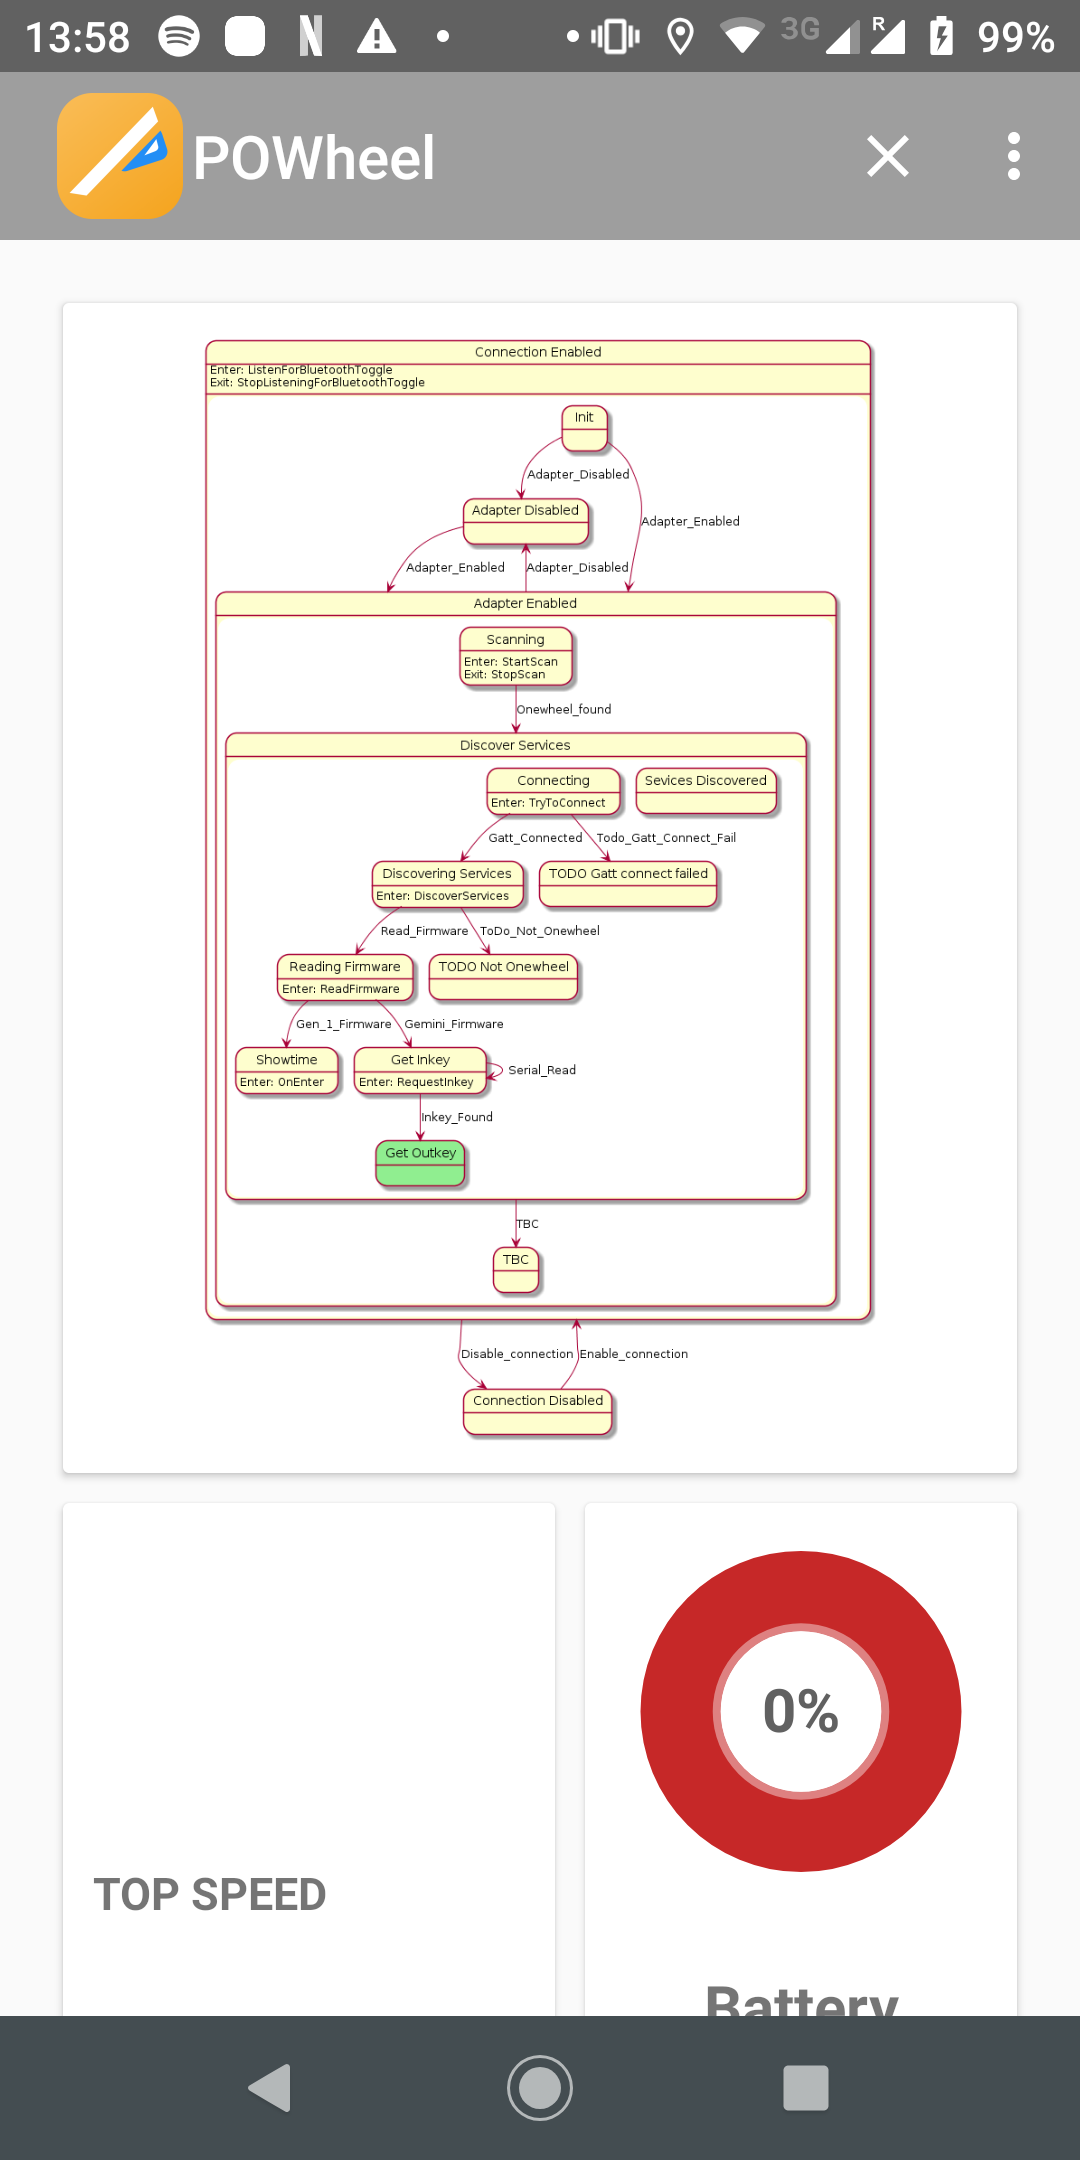
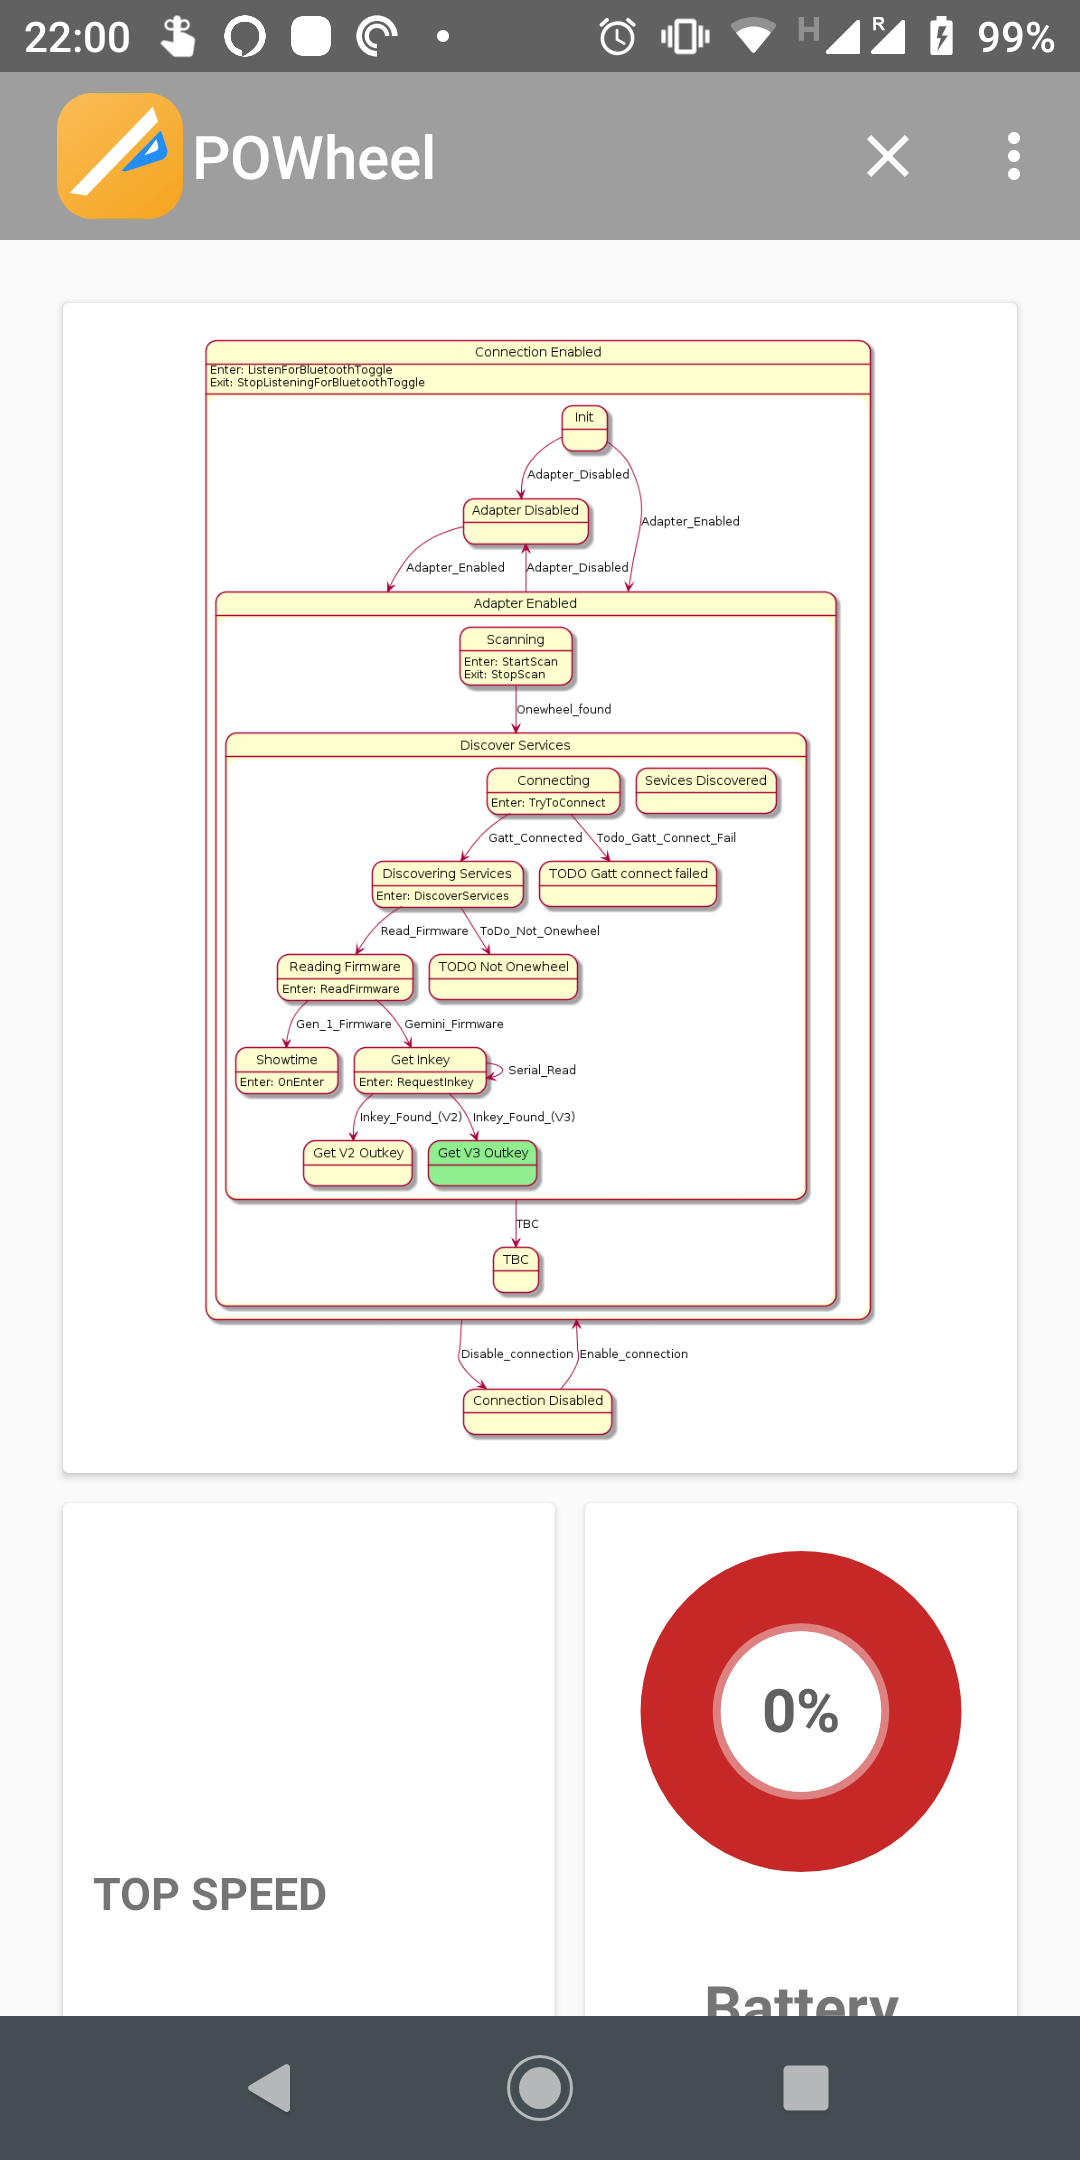
Split Get-Outkey states

diff --git a/app/src/main/java/net/kwatts/powtools/util/BluetoothUtilImpl.java b/app/src/main/java/net/kwatts/powtools/util/BluetoothUtilImpl.java
@@ -32,7 +32,7 @@ import net.kwatts.powtools.MainActivity;
 import net.kwatts.powtools.model.IUnlocker;
 import net.kwatts.powtools.model.OWDevice;
 import net.kwatts.powtools.model.Session;
-import net.kwatts.powtools.BluetoothStateMachine.Event.InkeyFound;
+import net.kwatts.powtools.BluetoothStateMachine.Event.InkeyFoundV2;
 
 import org.jetbrains.annotations.NotNull;
 
@@ -841,7 +841,8 @@ public class BluetoothUtilImpl implements BluetoothUtil, DiagramCache.CacheFille
                             HashMap<String, Object> payload = new HashMap<String, Object>(1);
                             payload.put(owGatService.getClass().getSimpleName(), owGatService);
                             payload.put(gatt.getClass().getSimpleName(), gatt);
-                            handleStateMachineEvent(DiscoverSericesStateBuilder.GEMINI_FIRMWARE, payload);
+                            payload.put(Event.GeminiFirmware.FIRMWARE_VERSION, firmwareVersion);
+                            handleStateMachineEvent(Event.GeminiFirmware.ID, payload);
                         }
 
                         IUnlocker unlocker = session.getUnlocker();
@@ -998,13 +999,13 @@ public class BluetoothUtilImpl implements BluetoothUtil, DiagramCache.CacheFille
             public static final String TODO_NOT_ONEWHEEL = "ToDo Not Onewheel";
             public static final String READ_FIRMWARE_REVISION = "Read Firmware";
             public static final String GEN_1_FIRMWARE = "Gen 1 Firmware";
-            public static final String GEMINI_FIRMWARE = "Gemini Firmware";
             public static final String SERIAL_READ = "Serial Read";
             private GetInkeyState getInkeyState;
-            private State getOutKeyState;
+            private State getOutKeyV2State;
             private ConnectingState connectingState;
             private DiscoveringServicesState discoveringServicesState;
             private ServicesDiscoveredState servicesDiscoveredState;
+            private State getOutKeyV3State;
 
             public State build() {
 
@@ -1013,7 +1014,8 @@ public class BluetoothUtilImpl implements BluetoothUtil, DiagramCache.CacheFille
                 servicesDiscoveredState = new ServicesDiscoveredState();
                 State readingFirmawareState = new ReadingFirmwareState();
                 getInkeyState = new GetInkeyState();
-                getOutKeyState = new State("Get Outkey");
+                getOutKeyV2State = new State("Get V2 Outkey");
+                getOutKeyV3State = new State("Get V3 Outkey");
 
                 State gattConnectFailed = new State("TODO Gatt connect failed");
                 State notOnewheel = new State("TODO Not Onewheel");
@@ -1027,10 +1029,11 @@ public class BluetoothUtilImpl implements BluetoothUtil, DiagramCache.CacheFille
 
                 ShowTimeState showTimeState = new ShowTimeState();
                 readingFirmawareState.addHandler(GEN_1_FIRMWARE, showTimeState, TransitionKind.External);
-                readingFirmawareState.addHandler(GEMINI_FIRMWARE, getInkeyState, TransitionKind.External);
+                readingFirmawareState.addHandler(Event.GeminiFirmware.ID, getInkeyState, TransitionKind.External);
 
                 getInkeyState.addHandler(SERIAL_READ, getInkeyState, TransitionKind.Internal, new OnSerialRead());
-                getInkeyState.addHandler(InkeyFound.ID, getOutKeyState, TransitionKind.External);
+                getInkeyState.addHandler(InkeyFoundV2.ID, getOutKeyV2State, TransitionKind.External);
+                getInkeyState.addHandler(Event.InkeyFoundV3.ID, getOutKeyV3State, TransitionKind.External);
 
                 DiscoverSericesState discoverSericesState = new DiscoverSericesState(
                         connectingState,
@@ -1039,7 +1042,8 @@ public class BluetoothUtilImpl implements BluetoothUtil, DiagramCache.CacheFille
                         readingFirmawareState,
                         showTimeState,
                         getInkeyState,
-                        getOutKeyState,
+                        getOutKeyV2State,
+                        getOutKeyV3State,
 
                         gattConnectFailed,
                         notOnewheel);
@@ -1135,6 +1139,7 @@ public class BluetoothUtilImpl implements BluetoothUtil, DiagramCache.CacheFille
             public class GetInkeyState extends State {
 
                 private final InkeyCollator inkeyCollator;
+                private int firmwareVersion;
 
                 public GetInkeyState() {
                     super("Get Inkey");
@@ -1146,7 +1151,11 @@ public class BluetoothUtilImpl implements BluetoothUtil, DiagramCache.CacheFille
                     byte[] value = bluetoothGattCharacteristic.getValue();
                     inkeyCollator.append(value);
                     if(inkeyCollator.isFound()) {
-                        handleStateMachineEvent(InkeyFound.ID, InkeyFound.newPayload(inkeyCollator));
+                        if(firmwareVersion <= 4141) {
+                            handleStateMachineEvent(InkeyFoundV2.ID, Event.newSimplePayload(inkeyCollator));
+                        } else {
+                            handleStateMachineEvent(Event.InkeyFoundV3.ID, Event.newSimplePayload(inkeyCollator));
+                        }
                     }
                 }
 
@@ -1155,7 +1164,7 @@ public class BluetoothUtilImpl implements BluetoothUtil, DiagramCache.CacheFille
                     public void run() {
                         BluetoothGattService bluetoothGattService = (BluetoothGattService) mPayload.get(BluetoothGattService.class.getSimpleName());
                         BluetoothGatt bluetoothGatt = (BluetoothGatt) mPayload.get(BluetoothGatt.class.getSimpleName());
-                        //int firmwareVersion = unsignedShort(bluetoothGattCharacteristic.getValue());
+                        firmwareVersion = (int) mPayload.get(Event.GeminiFirmware.FIRMWARE_VERSION);
                         requestInkey(bluetoothGattService, bluetoothGatt);
                     }
                 }

diff --git a/app/src/main/java/net/kwatts/powtools/BluetoothStateMachine/Event.java b/app/src/main/java/net/kwatts/powtools/BluetoothStateMachine/Event.java
@@ -6,21 +6,24 @@ import java.util.HashMap;
 
 public class Event {
 
-    private static HashMap<String, Object> newSimplePayload(Object result) {
+    public static HashMap<String, Object> newSimplePayload(Object result) {
         HashMap<String, Object> payload = new HashMap<String, Object>(1);
         payload.put(result.getClass().getSimpleName(), result);
         return payload;
     }
 
 
-    public static class InkeyFound extends Event {
-        public static final String ID = "Inkey Found";
-
-        public static HashMap<String, Object> newPayload(InkeyCollator inkeyCollator) {
-            return Event.newSimplePayload(inkeyCollator);
-        }
-
-
-
+    public static class InkeyFoundV2 extends Event {
+        public static final String ID = "Inkey Found (V2)";
     }
+
+    public static class InkeyFoundV3 extends Event {
+        public static final String ID = "Inkey Found (V3)";
+    }
+
+    public static class GeminiFirmware {
+        public static final String ID = "Gemini Firmware";
+        public static final String FIRMWARE_VERSION = "Firmware Version";
+    }
+
 }
